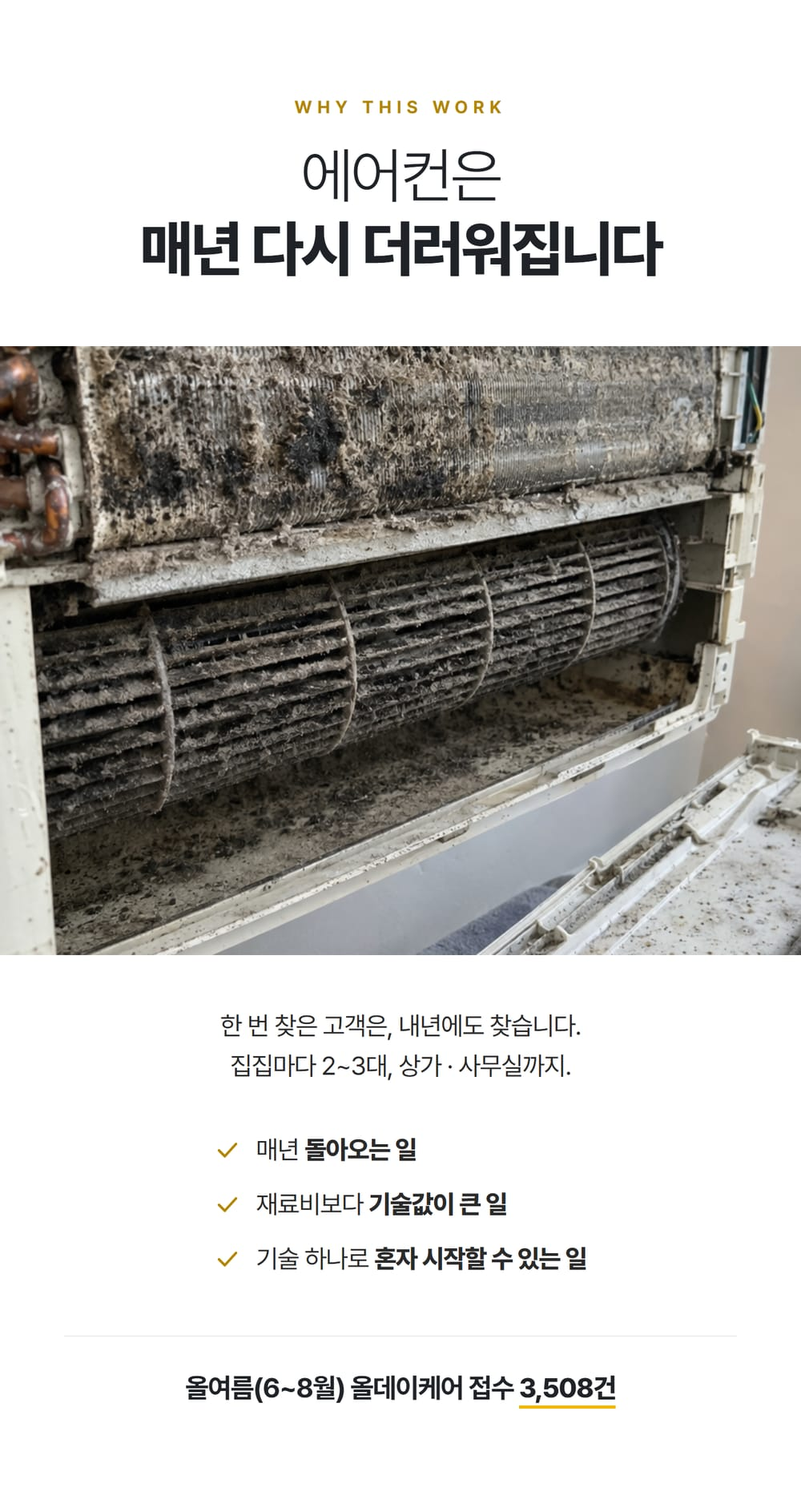
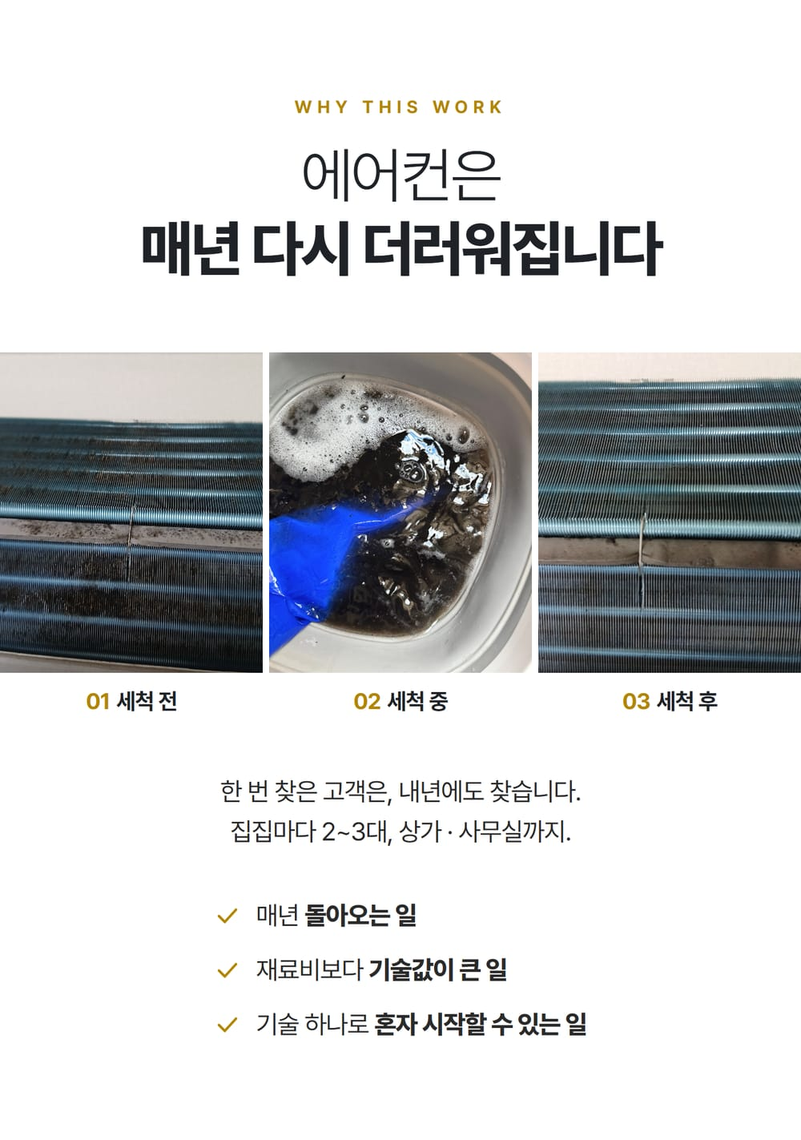
feat: 기사 양성 과정 랜딩 개편 — 직영기사 성수기 일 평균 · 실제 교육/현장 사진 · 1년 일감 지도

diff --git a/design/academy/sections/s7.html b/design/academy/sections/s7.html
@@ -1,24 +1,97 @@
 <!doctype html>
 <html lang="ko"><head><meta charset="utf-8"><link rel="stylesheet" href="style.css">
 <style>
-  .s7 .grid { display: grid; grid-template-columns: 1fr 1fr; gap: 12px; margin-top: 84px; }
-  .s7 figure { text-align: left; }
-  .s7 figure img { display: block; width: 494px; height: 560px; object-fit: cover; object-position: center 30%; }
-  .s7 figcaption { padding: 22px 24px 30px; font-size: 30px; font-weight: 500; letter-spacing: -0.035em; color: var(--sub); }
-  .s7 figcaption b { font-weight: 800; color: var(--ink-deep); margin-right: 10px; }
-  .s7 .foot { margin: 48px 80px 0; padding-top: 44px; border-top: 1px solid var(--line); font-size: 32px; line-height: 1.55; letter-spacing: -0.035em; color: var(--ink-deep); }
+  .s7 .legend { display: flex; justify-content: center; gap: 30px; margin-top: 64px; font-size: 26px; font-weight: 600; color: var(--sub); }
+  .s7 .legend span { display: inline-flex; align-items: center; gap: 10px; }
+  .s7 .legend i { display: inline-block; width: 22px; height: 22px; }
+  .s7 svg { display: block; width: 1000px; height: 680px; margin-top: 20px; }
+  .s7 svg .v { font: 700 22px Pretendard; fill: #1F2328; text-anchor: middle; }
+  .s7 svg .nd { font: 600 20px Pretendard; fill: #9A9A96; text-anchor: middle; }
+  .s7 svg .m { font: 600 24px Pretendard; fill: #6E6E6A; text-anchor: middle; }
+  .s7 svg .s1 { font: 800 44px Pretendard; fill: #1F2328; text-anchor: middle; letter-spacing: -1.5px; }
+  .s7 svg .s2 { font: 600 26px Pretendard; fill: #6E6E6A; text-anchor: middle; letter-spacing: -0.8px; }
+  .s7 .cards { display: grid; grid-template-columns: 1fr 1fr; gap: 12px; margin: 40px 40px 0; text-align: left; }
+  .s7 .cards > div { padding: 40px 36px 42px; }
+  .s7 .cards .s { font-size: 34px; font-weight: 800; letter-spacing: -0.03em; }
+  .s7 .cards .s small { font-size: 26px; font-weight: 600; margin-left: 6px; }
+  .s7 .cards b { display: block; margin-top: 18px; font-size: 64px; font-weight: 800; letter-spacing: -0.045em; line-height: 1; }
+  .s7 .cards .d { margin-top: 18px; font-size: 28px; font-weight: 600; letter-spacing: -0.035em; }
+  .s7 .c-sum { background: #1F2328; color: #F2B705; }
+  .s7 .c-aut { background: #F2B705; color: #1F2328; }
+  .s7 .c-win { background: #FFF7DB; color: #1F2328; }
+  .s7 .c-spr { background: #FFFFFF; color: #1F2328; border: 1px solid #E4E4E1; }
+  .s7 .src { margin: 30px 50px 0; font-size: 20px; line-height: 1.6; color: #9A9A96; }
+  .s7 .foot { margin: 60px 80px 0; padding-top: 44px; border-top: 1px solid var(--line); font-size: 32px; line-height: 1.55; letter-spacing: -0.035em; color: var(--ink-deep); }
   .s7 .foot b { font-weight: 800; }
 </style></head>
 <body>
 <section class="sec s7">
   <p class="eyebrow">ALL YEAR ROUND</p>
   <h2 class="title"><span class="l">여름에만 버는 일이</span><br>아닙니다</h2>
-  <div class="grid">
-    <figure><img src="../photos/a7_summer.png" alt=""><figcaption><b>여름</b>에어컨 세척 성수기</figcaption></figure>
-    <figure><img src="../photos/a7_autumn.png" alt=""><figcaption><b>가을</b>점검 · 수리</figcaption></figure>
-    <figure><img src="../photos/a7_winter.png" alt=""><figcaption><b>겨울</b>로봇청소기 · 난방 수리</figcaption></figure>
-    <figure><img src="../photos/a7_spring.png" alt=""><figcaption><b>봄</b>세척 시즌 개막</figcaption></figure>
+  <div class="legend"><span><i style="background:#1F2328"></i>세척</span><span><i style="background:#F2B705"></i>수리 · 냉매</span><span><i style="background:#9A9A96"></i>설치 · 이전</span><span><i style="background:#FFE38A"></i>로봇청소기 · 기타</span></div>
+  <svg viewBox="0 0 1000 680">
+    <text x="87" y="456" class="nd">기록 전</text>
+    <text x="87" y="506" class="m">11월</text>
+    <text x="162" y="456" class="nd">기록 전</text>
+    <text x="162" y="506" class="m">12월</text>
+    <text x="237" y="456" class="nd">기록 전</text>
+    <text x="237" y="506" class="m">1월</text>
+    <text x="312" y="456" class="nd">기록 전</text>
+    <text x="312" y="506" class="m">2월</text>
+    <text x="387" y="456" class="nd">기록 전</text>
+    <text x="387" y="506" class="m">3월</text>
+    <text x="462" y="456" class="nd">기록 전</text>
+    <text x="462" y="506" class="m">4월</text>
+    <rect x="511" y="96.3" width="52" height="373.7" fill="#1F2328"/>
+    <rect x="511" y="90.0" width="52" height="6.3" fill="#F2B705"/>
+    <text x="537" y="78.0" class="v">849</text>
+    <text x="537" y="506" class="m">5월</text>
+    <rect x="586" y="296.3" width="52" height="173.7" fill="#1F2328"/>
+    <rect x="586" y="183.5" width="52" height="112.8" fill="#F2B705"/>
+    <text x="612" y="171.5" class="v">640</text>
+    <text x="612" y="506" class="m">6월</text>
+    <rect x="661" y="466.4" width="52" height="3.6" fill="#1F2328"/>
+    <rect x="661" y="94.9" width="52" height="371.5" fill="#F2B705"/>
+    <rect x="661" y="91.8" width="52" height="3.1" fill="#9A9A96"/>
+    <rect x="661" y="88.8" width="52" height="3.0" fill="#FFE38A"/>
+    <text x="687" y="76.8" class="v">848</text>
+    <text x="687" y="506" class="m">7월</text>
+    <rect x="736" y="467.0" width="52" height="3.0" fill="#1F2328"/>
+    <rect x="736" y="127.7" width="52" height="339.3" fill="#F2B705"/>
+    <rect x="736" y="123.7" width="52" height="4.0" fill="#9A9A96"/>
+    <text x="762" y="111.7" class="v">768</text>
+    <text x="762" y="506" class="m">8월</text>
+    <rect x="811" y="467.0" width="52" height="3.0" fill="#1F2328"/>
+    <rect x="811" y="463.9" width="52" height="3.1" fill="#F2B705"/>
+    <rect x="811" y="459.8" width="52" height="4.0" fill="#9A9A96"/>
+    <text x="837" y="447.8" class="v">17</text>
+    <text x="837" y="506" class="m">9월</text>
+    <rect x="886" y="462.8" width="52" height="7.2" fill="#9A9A96"/>
+    <rect x="886" y="459.7" width="52" height="3.1" fill="#FFE38A"/>
+    <text x="912" y="447.7" class="v">23</text>
+    <text x="912" y="506" class="m">10월</text>
+    <line x1="50" y1="470" x2="950" y2="470" stroke="#E4E4E1" stroke-width="2"/>
+    <polyline points="56,534 56,548 119,548 119,534" fill="none" stroke="#1F2328" stroke-width="1"/>
+    <polyline points="131,534 131,548 344,548 344,534" fill="none" stroke="#1F2328" stroke-width="1"/>
+    <polyline points="356,534 356,548 569,548 569,534" fill="none" stroke="#1F2328" stroke-width="1"/>
+    <polyline points="581,534 581,548 794,548 794,534" fill="none" stroke="#1F2328" stroke-width="1"/>
+    <polyline points="806,534 806,548 944,548 944,534" fill="none" stroke="#1F2328" stroke-width="1"/>
+    <text x="237" y="602" class="s1">겨울</text>
+    <text x="237" y="642" class="s2">로봇청소기 · 난방</text>
+    <text x="462" y="602" class="s1">봄</text>
+    <text x="462" y="642" class="s2">준비</text>
+    <text x="687" y="602" class="s1">여름</text>
+    <text x="687" y="642" class="s2">성수기</text>
+    <text x="875" y="602" class="s1">가을</text>
+    <text x="875" y="642" class="s2">수리</text>
+  </svg>
+  <div class="cards">
+    <div class="c-sum"><p class="s">여름 <small>6~8월</small></p><b>월 752건</b><p class="d">에어컨 세척 · 냉매 충전</p></div>
+    <div class="c-aut"><p class="s">가을 <small>9~10월</small></p><b>월 20건</b><p class="d">점검 · 냉매 · 수리</p></div>
+    <div class="c-win"><p class="s">겨울 <small>12~2월</small></p><b>NEW</b><p class="d">로봇청소기 서비스 시작</p></div>
+    <div class="c-spr"><p class="s">봄 <small>5월</small></p><b>849건</b><p class="d">세척 예약 시작</p></div>
   </div>
+  <p class="src">올잇 완료 작업 기준 (2026년 5~10월). 2025년 11월 ~ 2026년 4월은 올잇 기록 전입니다.</p>
   <p class="foot">여름 하나만 보고 시작하지 마세요.<br><b>1년 내내 일하는 구조입니다.</b></p>
 </section>
 </body></html>

diff --git a/public/academy.html b/public/academy.html
@@ -4,7 +4,7 @@
 <meta charset="utf-8">
 <meta name="viewport" content="width=device-width,initial-scale=1,viewport-fit=cover">
 <title>올데이케어 에어컨 기사 양성 과정 | 3주 배우고 일감까지</title>
-<meta name="description" content="에어컨 세척 기사 3주 과정. 수료 평가 통과 후 올데이케어 콜 배정 시작. 실제 협력기사 정산 사례 공개. 1866-2003">
+<meta name="description" content="에어컨 세척 기사 3주 과정. 수료 평가 통과 후 올데이케어 콜 배정 시작. 실제 직영기사 하루 평균 정산 공개. 1866-2003">
 <meta name="robots" content="noindex">
 <link rel="stylesheet" href="https://cdn.jsdelivr.net/npm/pretendard@1.3.9/dist/web/static/pretendard.min.css">
 <style>
@@ -101,7 +101,7 @@ footer b{color:#4A5263}
 </header>
 
 <!-- 이미지 파일: public/img/academy/s1.jpg ~ s13.jpg -->
-<div class="sec" data-img="img/academy/s1.jpg" data-w="1000" data-h="1988" data-alt="에어컨 기사, 월 1,000만원을 넘기는 사람들이 있습니다. 2026년 8월 협력기사 A 월 정산 1,485만원 (올잇 정산 기준). 3주 배우고 4주차부터 일합니다" data-label="S1 히어로"></div>
+<div class="sec" data-img="img/academy/s1.jpg" data-w="1000" data-h="1740" data-alt="올데이케어 직영기사 성수기 일 평균 34만원. 2026년 6~8월 작업한 날 기준, 올잇 정산(기사 지급액). 3주 배우고 4주차부터 일합니다" data-label="S1 히어로"></div>
 <a class="tel-band" href="tel:18662003">
   <span class="ico"><i></i><svg width="26" height="26" viewBox="0 0 24 24" fill="#1F2328"><path d="M6.6 10.8a15.1 15.1 0 0 0 6.6 6.6l2.2-2.2a1 1 0 0 1 1-.25 11.4 11.4 0 0 0 3.6.57 1 1 0 0 1 1 1V20a1 1 0 0 1-1 1A17 17 0 0 1 3 4a1 1 0 0 1 1-1h3.5a1 1 0 0 1 1 1c0 1.25.2 2.45.57 3.57a1 1 0 0 1-.25 1z"/></svg></span>
   <span><small>과정 상담 · 지금 누르면 바로 연결</small><b>1866-2003</b></span>
@@ -131,21 +131,21 @@ footer b{color:#4A5263}
   </div>
 </section>
 <div class="sec" data-img="img/academy/s2.jpg" data-w="1000" data-h="1935" data-alt="이런 생각 해본 적 있으신가요. 월급은 그대로인데, 몸 쓰는 건 자신 있는데, 내 기술 하나만 있으면" data-label="S2 프롤로그"></div>
-<div class="sec" data-img="img/academy/s3.jpg" data-w="1000" data-h="1690" data-alt="말 대신, 정산 내역으로 보여드립니다. 2026년 8월 협력기사 A 월 정산 1,485만원, 작업 65건 (올잇 정산 기준, 기사 지급액). 활동 일수 · 지역 · 숙련도에 따라 달라집니다" data-label="S3 수입 증빙"></div>
-<div class="sec" data-img="img/academy/s4.jpg" data-w="1000" data-h="1872" data-alt="에어컨은 매년 다시 더러워집니다. 한 번 찾은 고객은 내년에도 찾습니다. 올여름(6~8월) 올데이케어 접수 3,508건" data-label="S4 왜 이 일인가"></div>
+<div class="sec" data-img="img/academy/s3.jpg" data-w="1000" data-h="1110" data-alt="말 대신, 정산으로 보여드립니다. 직영기사 성수기 일 평균 34만원, 올여름 올데이케어 접수 3,508건. 일은 넘치고, 기사는 모자랍니다" data-label="S3 수입 증빙"></div>
+<div class="sec" data-img="img/academy/s4.jpg" data-w="1000" data-h="1423" data-alt="에어컨은 매년 다시 더러워집니다. 실제 현장 사진: 세척 전, 세척 중, 세척 후" data-label="S4 왜 이 일인가"></div>
 <a class="tel-band" href="#apply2">
   <span class="ico go"><svg width="26" height="26" viewBox="0 0 24 24" fill="none" stroke="#1F2328" stroke-width="2.5"><path d="M5 12h14M13 6l6 6-6 6"/></svg></span>
   <span><small>하루 안에 전화로 과정 안내</small><b>지원하기</b></span>
 </a>
 <div class="sec" data-img="img/academy/s5.jpg" data-w="1000" data-h="1069" data-alt="기술을 배워도 일이 없으면 소용없습니다. 학원은 수료증을 주고, 혼자 창업하면 광고비부터 나갑니다" data-label="S5 진짜 문제"></div>
 <div class="sec" data-img="img/academy/s6.jpg" data-w="1000" data-h="1640" data-alt="올데이케어는 일감을 드립니다. 수료 평가를 통과하면 바로 콜 배정이 시작됩니다" data-label="S6 해법"></div>
-<div class="sec" data-img="img/academy/s7.jpg" data-w="1000" data-h="2061" data-alt="사계절 일하는 구조. 여름 에어컨 세척, 가을 겨울 수리와 로봇청소기, 봄 세척 시즌" data-label="S7 사계절"></div>
+<div class="sec" data-img="img/academy/s7.jpg" data-w="1000" data-h="2104" data-alt="여름에만 버는 일이 아닙니다. 2026년 월별 완료 작업 건수와 계절별 일감" data-label="S7 사계절"></div>
 <a class="tel-band" href="tel:18662003">
   <span class="ico"><i></i><svg width="26" height="26" viewBox="0 0 24 24" fill="#1F2328"><path d="M6.6 10.8a15.1 15.1 0 0 0 6.6 6.6l2.2-2.2a1 1 0 0 1 1-.25 11.4 11.4 0 0 0 3.6.57 1 1 0 0 1 1 1V20a1 1 0 0 1-1 1A17 17 0 0 1 3 4a1 1 0 0 1 1-1h3.5a1 1 0 0 1 1 1c0 1.25.2 2.45.57 3.57a1 1 0 0 1-.25 1z"/></svg></span>
   <span><small>궁금한 건 전화로 바로</small><b>1866-2003</b></span>
 </a>
-<div class="sec" data-img="img/academy/s8.jpg" data-w="1000" data-h="2420" data-alt="3주 과정. 1주 벽걸이, 2주 스탠드 천장형 냉매 기초, 3주 로봇청소기 고객응대 현장 동행 후 수료 평가" data-label="S8 3주 커리큘럼"></div>
-<div class="sec" data-img="img/academy/s9.jpg" data-w="1000" data-h="1838" data-alt="수료 후에도 계속. 교육장 상시 개방, 수리 동행 심화 과정, 앱으로 콜 받기, 정산 투명 공개" data-label="S9 수료 후"></div>
+<div class="sec" data-img="img/academy/s8.jpg" data-w="1000" data-h="3442" data-alt="3주 과정. 1주 벽걸이, 2주 스탠드 천장형 냉매 기초, 3주 로봇청소기 고객응대 현장 동행 후 수료 평가" data-label="S8 3주 커리큘럼"></div>
+<div class="sec" data-img="img/academy/s9.jpg" data-w="1000" data-h="2397" data-alt="막히면 언제든, 여기서 다시. 교육장 2곳 상시 개방, 수리 동행 심화 과정, 앱으로 콜과 정산, 비수기 일감" data-label="S9 수료 후"></div>
 <div class="sec" data-img="img/academy/s10.jpg" data-w="1000" data-h="1125" data-alt="이런 분께 맞습니다, 이런 분께는 맞지 않습니다" data-label="S10 맞는 사람"></div>
 <div class="sec" data-img="img/academy/s11.jpg" data-w="1000" data-h="983" data-alt="우리가 직접 기사를 키우는 이유. 성수기마다 기사가 모자랐습니다. 일은 넘치는데 사람이 없다면, 사람을 키우면 됩니다" data-label="S11 대표 이야기"></div>
 <div class="sec" data-img="img/academy/s12.jpg" data-w="1000" data-h="1948" data-alt="자주 묻는 질문. 경력, 나이, 차량, 교육 중 수입, 개강" data-label="S12 FAQ"></div>
@@ -178,7 +178,7 @@ footer b{color:#4A5263}
 
 <footer>
   <b>올데이케어</b> · 사업자등록번호 430-07-03167 · 대표번호 1866-2003<br>
-  수입 사례는 실제 협력기사 정산 내역이며, 개인의 활동 일수 · 지역 · 숙련도에 따라 달라집니다. 수입을 보장하지 않습니다.<br>
+  정산 사례는 실제 직영기사 정산 내역(기사 지급액, 작업한 날 기준)이며, 개인의 활동 일수 · 지역 · 숙련도에 따라 달라집니다. 수입을 보장하지 않습니다.<br>
   본 과정은 협력기사 양성 과정이며 고용 계약이 아닙니다.<br>
   <a href="/privacy">개인정보처리방침</a> · 일부 이미지는 이해를 돕기 위한 연출 이미지입니다.
 </footer>

diff --git a/design/academy/sections/s3.html b/design/academy/sections/s3.html
@@ -1,49 +1,25 @@
 <!doctype html>
 <html lang="ko"><head><meta charset="utf-8"><link rel="stylesheet" href="style.css">
 <style>
-  .s3 .nums { display: grid; grid-template-columns: 1.15fr 1.15fr 0.9fr; margin: 84px 30px 0; }
-  .s3 .nums > div { padding: 4px 6px; }
+  .s3 { padding-bottom: 0; }
+  .s3 .nums { display: grid; grid-template-columns: 1fr 1fr; margin: 90px 40px 0; }
+  .s3 .nums > div { padding: 6px 10px; }
   .s3 .nums > div + div { border-left: 1px solid var(--line); }
-  .s3 .nums p { font-size: 28px; font-weight: 600; letter-spacing: -0.03em; color: var(--sub); }
-  .s3 .nums b { display: block; margin-top: 14px; font-size: 76px; font-weight: 800; letter-spacing: -0.05em; line-height: 1; color: var(--ink-deep); white-space: nowrap; }
-  .s3 .nums b small { font-size: 32px; font-weight: 800; margin-left: 2px; }
-  .s3 .nums .top b { color: var(--ink-deep); text-decoration: underline; text-decoration-color: var(--yellow); text-decoration-thickness: 6px; text-underline-offset: 14px; text-decoration-skip-ink: none; }
-  .s3 .basis { margin: 52px 60px 0; font-size: 28px; font-weight: 600; letter-spacing: -0.03em; color: var(--ink-deep); }
-  .s3 .chart-t { margin-top: 96px; font-size: 32px; font-weight: 800; letter-spacing: -0.03em; color: var(--ink-deep); }
-  .s3 svg { display: block; margin: 36px auto 0; width: 1000px; height: 560px; }
-  .s3 svg .v { font: 700 26px Pretendard; fill: #1F2328; text-anchor: middle; letter-spacing: -0.03em; }
-  .s3 svg .m { font: 600 28px Pretendard; fill: #6E6E6A; text-anchor: middle; }
-  .s3 .note { margin: 64px 70px 0; font-size: 26px; line-height: 1.6; letter-spacing: -0.03em; color: var(--sub); }
+  .s3 .nums b { display: block; font-size: 120px; font-weight: 800; letter-spacing: -0.055em; line-height: 1; color: var(--ink-deep); white-space: nowrap; }
+  .s3 .nums b small { font-size: 48px; letter-spacing: -0.03em; margin-left: 2px; }
+  .s3 .nums p { margin-top: 26px; font-size: 32px; font-weight: 700; letter-spacing: -0.035em; color: var(--sub); }
+  .s3 .band { margin-top: 100px; }
+  .s3 .note { background: var(--white); padding: 44px 60px 70px; font-size: 20px; line-height: 1.65; letter-spacing: -0.01em; color: var(--sub); }
 </style></head>
 <body>
 <section class="sec s3">
   <p class="eyebrow">PROOF</p>
-  <h2 class="title"><span class="l">말 대신,</span><br>정산 내역으로 보여드립니다</h2>
+  <h2 class="title"><span class="l">말 대신,</span><br>정산으로 보여드립니다</h2>
   <div class="nums">
-    <div class="top"><p>월 최고</p><b>1,485<small>만원</small></b></div>
-    <div><p>상위 3명 평균</p><b>1,198<small>만원</small></b></div>
-    <div><p>한 달 작업</p><b>65<small>건</small></b></div>
+    <div><b>34<small>만원</small></b><p>성수기 일 평균</p></div>
+    <div><b>3,508<small>건</small></b><p>올여름 올데이케어 접수</p></div>
   </div>
-  <p class="basis">2026년 8월 · 협력기사 A · 월 정산 1,485만원 · 작업 65건<br>(올잇 정산 기준, 기사 지급액)</p>
-  <p class="chart-t">2026년 월별 최고 정산액</p>
-  <svg viewBox="0 0 1000 560">
-    <line x1="60" y1="470" x2="940" y2="470" stroke="#E4E4E1" stroke-width="2"/>
-    <rect x="90" y="431" width="96" height="39" fill="#1F2328"/>
-    <text x="138" y="413" class="v">137만원</text>
-    <text x="138" y="520" class="m">5월</text>
-    <rect x="258" y="160" width="96" height="310" fill="#1F2328"/>
-    <text x="306" y="142" class="v">1,095만원</text>
-    <text x="306" y="520" class="m">6월</text>
-    <rect x="426" y="102" width="96" height="368" fill="#1F2328"/>
-    <text x="474" y="84" class="v">1,302만원</text>
-    <text x="474" y="520" class="m">7월</text>
-    <rect x="594" y="50" width="96" height="420" fill="#F2B705"/>
-    <text x="642" y="32" class="v">1,485만원</text>
-    <text x="642" y="520" class="m">8월</text>
-    <rect x="762" y="375" width="96" height="95" fill="#1F2328"/>
-    <text x="810" y="357" class="v">336만원</text>
-    <text x="810" y="520" class="m">9월</text>
-  </svg>
-  <p class="note">실제 협력기사 정산 내역(기사 지급액, 올잇 정산 기준)입니다. 활동 일수 · 지역 · 숙련도에 따라 달라지며 수입을 보장하지 않습니다.</p>
+  <div class="band">일은 넘치고, 기사는 모자랍니다</div>
+  <p class="note">실제 직영기사 정산(기사 지급액, 올잇 정산, 작업한 날 기준)입니다. 활동 일수 · 지역 · 숙련도 · 계절에 따라 달라지며 수입을 보장하지 않습니다.</p>
 </section>
 </body></html>

diff --git a/design/academy/sections/s8.html b/design/academy/sections/s8.html
@@ -1,12 +1,15 @@
 <!doctype html>
 <html lang="ko"><head><meta charset="utf-8"><link rel="stylesheet" href="style.css">
 <style>
-  .s8 .photo { height: 680px; margin-top: 76px; }
-  .s8 .weeks { margin: 76px 80px 0; text-align: left; border-top: 1px solid var(--line); }
-  .s8 .wk { display: flex; padding: 40px 0; border-bottom: 1px solid var(--line); }
-  .s8 .wk .n { flex: 0 0 150px; padding-right: 30px; margin-right: 36px; border-right: 1px solid var(--line); font-size: 40px; font-weight: 800; letter-spacing: -0.04em; color: var(--yellow-d); }
+  .s8 .photo { height: 700px; margin-top: 76px; object-position: center 55%; }
+  .s8 .weeks { margin: 76px 40px 0; text-align: left; border-top: 1px solid var(--line); }
+  .s8 .wk { display: flex; padding: 44px 0; border-bottom: 1px solid var(--line); }
+  .s8 .wk .n { flex: 0 0 96px; padding-right: 20px; margin-right: 24px; border-right: 1px solid var(--line); font-size: 40px; font-weight: 800; letter-spacing: -0.04em; color: var(--yellow-d); }
+  .s8 .wk .b { flex: 1; }
   .s8 .wk b { display: block; font-size: 38px; font-weight: 800; letter-spacing: -0.04em; color: var(--ink-deep); }
   .s8 .wk p { margin-top: 12px; font-size: 30px; line-height: 1.55; letter-spacing: -0.035em; color: var(--sub); }
+  .s8 .wk .ph { display: flex; gap: 8px; margin-top: 26px; }
+  .s8 .wk .ph img { display: block; height: 300px; object-fit: cover; }
   .s8 .big { margin-top: 84px; font-size: 64px; line-height: 1.3; letter-spacing: -0.045em; font-weight: 800; color: var(--ink-deep); }
   .s8 .big .l { font-weight: 300; }
   .s8 .small { margin-top: 40px; font-size: 28px; letter-spacing: -0.03em; color: var(--sub); }
@@ -15,11 +18,11 @@
 <section class="sec s8">
   <p class="eyebrow">3 WEEKS</p>
   <h2 class="title"><span class="l">3주,</span><br>현장에서 바로 쓰는 것만</h2>
-  <img class="full photo" src="../photos/a8_training.png" alt="">
+  <img class="full photo" src="../photos/r12.jpg" alt="">
   <div class="weeks">
-    <div class="wk"><div class="n">1주</div><div><b>벽걸이</b><p>구조 · 공구 · 안전<br>분해 → 세척 → 조립 반복<br>단독 테스트</p></div></div>
-    <div class="wk"><div class="n">2주</div><div><b>스탠드 · 천장형</b><p>3종 세척<br>냉매 기초(게이지 · 압력 점검)</p></div></div>
-    <div class="wk"><div class="n">3주</div><div><b>실전</b><p>로봇청소기<br>고객응대 · 분쟁 예방<br>앱 사용법 · 실제 현장 동행</p></div></div>
+    <div class="wk"><div class="n">1주</div><div class="b"><b>벽걸이</b><p>구조 · 공구 · 안전<br>분해 → 세척 → 조립 반복<br>단독 테스트</p><div class="ph"><img src="../photos/r01.jpg" alt="" style="width:402px"><img src="../photos/r23.jpg" alt="" style="width:402px"></div></div></div>
+    <div class="wk"><div class="n">2주</div><div class="b"><b>스탠드 · 천장형</b><p>3종 세척<br>냉매 기초(게이지 · 압력 점검)</p><div class="ph"><img src="../photos/r16.jpg" alt="" style="width:265px"><img src="../photos/r20.jpg" alt="" style="width:265px"><img src="../photos/r22.jpg" alt="" style="width:265px"></div></div></div>
+    <div class="wk"><div class="n">3주</div><div class="b"><b>실전</b><p>로봇청소기<br>고객응대 · 분쟁 예방<br>앱 사용법 · 실제 현장 동행</p><div class="ph"><img src="../photos/r24.jpg" alt="" style="width:402px"><img src="../photos/r15.jpg" alt="" style="width:402px"></div></div></div>
   </div>
   <p class="big"><span class="l">수료 평가 통과 →</span><br><span class="uline">바로 콜 배정 시작</span></p>
   <p class="small">현장 동행 작업은 건당 수당을 드립니다</p>

diff --git a/design/academy/sections/s1.html b/design/academy/sections/s1.html
@@ -2,25 +2,27 @@
 <html lang="ko"><head><meta charset="utf-8"><link rel="stylesheet" href="style.css">
 <style>
   .s1 { padding: 0; }
-  .s1 .head { padding: 90px 40px 70px; }
-  .s1 .title { font-size: 80px; }
-  .s1 .proof { margin: 48px auto 0; width: 840px; padding-top: 32px; border-top: 1px solid var(--line); font-size: 26px; font-weight: 600; letter-spacing: -0.02em; color: var(--ink-deep); }
-  .s1 .photo { height: 880px; object-position: center 22%; }
-  .s1 .big { padding: 84px 40px 0; font-size: 72px; line-height: 1.25; letter-spacing: -0.045em; font-weight: 800; color: var(--ink-deep); }
+  .s1 .head { padding: 84px 40px 0; }
+  .s1 .who { margin-top: 26px; font-size: 30px; font-weight: 600; letter-spacing: -0.02em; color: var(--sub); }
+  .s1 .k { margin-top: 56px; font-size: 40px; font-weight: 800; letter-spacing: -0.04em; color: var(--ink-deep); }
+  .s1 .num { margin-top: 8px; font-size: 200px; font-weight: 800; letter-spacing: -0.06em; line-height: 1.02; color: var(--ink-deep);
+    text-decoration: underline; text-decoration-color: var(--yellow); text-decoration-thickness: 10px; text-underline-offset: 18px; text-decoration-skip-ink: none; }
+  .s1 .num small { font-size: 96px; letter-spacing: -0.04em; }
+  .s1 .basis { margin-top: 40px; font-size: 20px; font-weight: 500; letter-spacing: -0.01em; color: #9A9A96; }
+  .s1 .photo { height: 760px; margin-top: 72px; object-position: center 62%; }
+  .s1 .big { padding: 80px 40px 96px; font-size: 72px; line-height: 1.25; letter-spacing: -0.045em; font-weight: 800; color: var(--ink-deep); }
   .s1 .big .l { font-weight: 300; }
-  .s1 .cols { display: grid; grid-template-columns: repeat(3, 1fr); margin: 76px 40px 0; padding: 0 0 96px; }
-  .s1 .cols div { font-size: 32px; font-weight: 700; letter-spacing: -0.04em; color: var(--ink-deep); padding: 10px 0; }
-  .s1 .cols div + div { border-left: 1px solid var(--line); }
 </style></head>
 <body>
 <section class="sec s1">
   <div class="head">
     <p class="eyebrow">ALLDAYCARE TECHNICIAN PROGRAM</p>
-    <h1 class="title"><span class="l">에어컨 기사,</span><br>월 1,000만원을 넘기는<br>사람들이 있습니다</h1>
-    <p class="proof">2026년 8월 · 협력기사 A · 월 정산 1,485만원 (올잇 정산 기준)</p>
+    <p class="who">올데이케어 직영기사 · 성수기</p>
+    <p class="k">성수기 일 평균</p>
+    <p class="num">34<small>만원</small></p>
+    <p class="basis">2026년 6~8월 · 작업한 날 기준 · 올잇 정산(기사 지급액)</p>
   </div>
-  <img class="full photo" src="../photos/a1_hero.png" alt="">
+  <img class="full photo" src="../photos/r19.jpg" alt="">
   <p class="big"><span class="l">3주 배우고,</span><br>4주차부터 <span class="uline">일합니다</span></p>
-  <div class="cols"><div>경력 없어도</div><div>일감은 저희가</div><div>교육장 상시 개방</div></div>
 </section>
 </body></html>

diff --git a/design/academy/sections/s4.html b/design/academy/sections/s4.html
@@ -1,22 +1,26 @@
 <!doctype html>
 <html lang="ko"><head><meta charset="utf-8"><link rel="stylesheet" href="style.css">
 <style>
-  .s4 .photo { height: 760px; margin-top: 76px; }
-  .s4 .lead { margin-top: 64px; }
-  .s4 .fact { margin: 72px 80px 0; padding-top: 44px; border-top: 1px solid var(--line); font-size: 34px; font-weight: 700; letter-spacing: -0.035em; color: var(--ink-deep); }
-  .s4 .fact b { font-weight: 800; text-decoration: underline; text-decoration-color: var(--yellow); text-decoration-thickness: 4px; text-underline-offset: 10px; }
+  .s4 .three { display: grid; grid-template-columns: repeat(3, 1fr); gap: 8px; margin-top: 84px; }
+  .s4 .three img { display: block; width: 328px; height: 400px; object-fit: cover; }
+  .s4 .three figcaption { padding: 18px 0 0; font-size: 28px; font-weight: 700; letter-spacing: -0.03em; color: var(--ink-deep); }
+  .s4 .three figcaption i { font-style: normal; color: var(--yellow-d); margin-right: 8px; }
+  .s4 .lead { margin-top: 72px; }
 </style></head>
 <body>
 <section class="sec s4">
   <p class="eyebrow">WHY THIS WORK</p>
   <h2 class="title"><span class="l">에어컨은</span><br>매년 다시 더러워집니다</h2>
-  <img class="full photo" src="../photos/a4_dirty.png" alt="">
+  <div class="three">
+    <figure><img src="../photos/f_before.jpg" alt=""><figcaption><i>01</i>세척 전</figcaption></figure>
+    <figure><img src="../photos/f_wash.jpg" alt=""><figcaption><i>02</i>세척 중</figcaption></figure>
+    <figure><img src="../photos/f_after.jpg" alt=""><figcaption><i>03</i>세척 후</figcaption></figure>
+  </div>
   <p class="lead">한 번 찾은 고객은, 내년에도 찾습니다.<br>집집마다 2~3대, 상가 · 사무실까지.</p>
   <ul class="checks">
     <li><svg class="ck" viewBox="0 0 24 24"><path d="M4 12.5l5.5 5.5L20 6.5"/></svg><span>매년 <b>돌아오는 일</b></span></li>
     <li><svg class="ck" viewBox="0 0 24 24"><path d="M4 12.5l5.5 5.5L20 6.5"/></svg><span>재료비보다 <b>기술값이 큰 일</b></span></li>
     <li><svg class="ck" viewBox="0 0 24 24"><path d="M4 12.5l5.5 5.5L20 6.5"/></svg><span>기술 하나로 <b>혼자 시작할 수 있는 일</b></span></li>
   </ul>
-  <p class="fact">올여름(6~8월) 올데이케어 접수 <b>3,508건</b></p>
 </section>
 </body></html>

diff --git a/design/academy/sections/s9.html b/design/academy/sections/s9.html
@@ -1,8 +1,13 @@
 <!doctype html>
 <html lang="ko"><head><meta charset="utf-8"><link rel="stylesheet" href="style.css">
 <style>
-  .s9 .photo { height: 720px; margin-top: 76px; }
-  .s9 .checks li { flex-wrap: nowrap; }
+  .s9 .top { font-size: 72px; line-height: 1.22; letter-spacing: -0.045em; font-weight: 800; color: var(--ink-deep); }
+  .s9 .top .l { font-weight: 300; }
+  .s9 .photo { height: 640px; margin-top: 64px; }
+  .s9 .pair { display: flex; gap: 8px; margin-top: 8px; }
+  .s9 .pair img { display: block; width: 496px; height: 300px; object-fit: cover; }
+  .s9 .cap { margin: 34px 60px 0; font-size: 28px; font-weight: 600; letter-spacing: -0.03em; color: var(--ink-deep); }
+  .s9 .title { margin-top: 100px; }
   .s9 .checks li span b { display: block; font-size: 36px; }
   .s9 .checks li span em { display: block; margin-top: 6px; font-style: normal; font-size: 30px; color: var(--sub); }
   .s9 .checks li + li { margin-top: 34px; }
@@ -10,8 +15,11 @@
 <body>
 <section class="sec s9">
   <p class="eyebrow">AFTER THE COURSE</p>
+  <p class="top" style="margin-top:28px"><span class="l">막히면 언제든,</span><br>여기서 다시</p>
+  <img class="full photo" src="../photos/r27.jpg" alt="">
+  <div class="pair"><img src="../photos/r03.jpg" alt=""><img src="../photos/r21.jpg" alt=""></div>
+  <p class="cap">교육장 2곳 · 실습용 스탠드 · 벽걸이 · 천장형 상시 비치</p>
   <h2 class="title"><span class="l">수료하고 끝이</span><br>아닙니다</h2>
-  <img class="full photo" src="../photos/a9_practice.png" alt="">
   <ul class="checks">
     <li><svg class="ck" viewBox="0 0 24 24"><path d="M4 12.5l5.5 5.5L20 6.5"/></svg><span><b>교육장 상시 개방</b><em>막히면 언제든 와서 연습</em></span></li>
     <li><svg class="ck" viewBox="0 0 24 24"><path d="M4 12.5l5.5 5.5L20 6.5"/></svg><span><b>수리 동행 심화 과정</b><em>활동하면서 수리까지</em></span></li>
